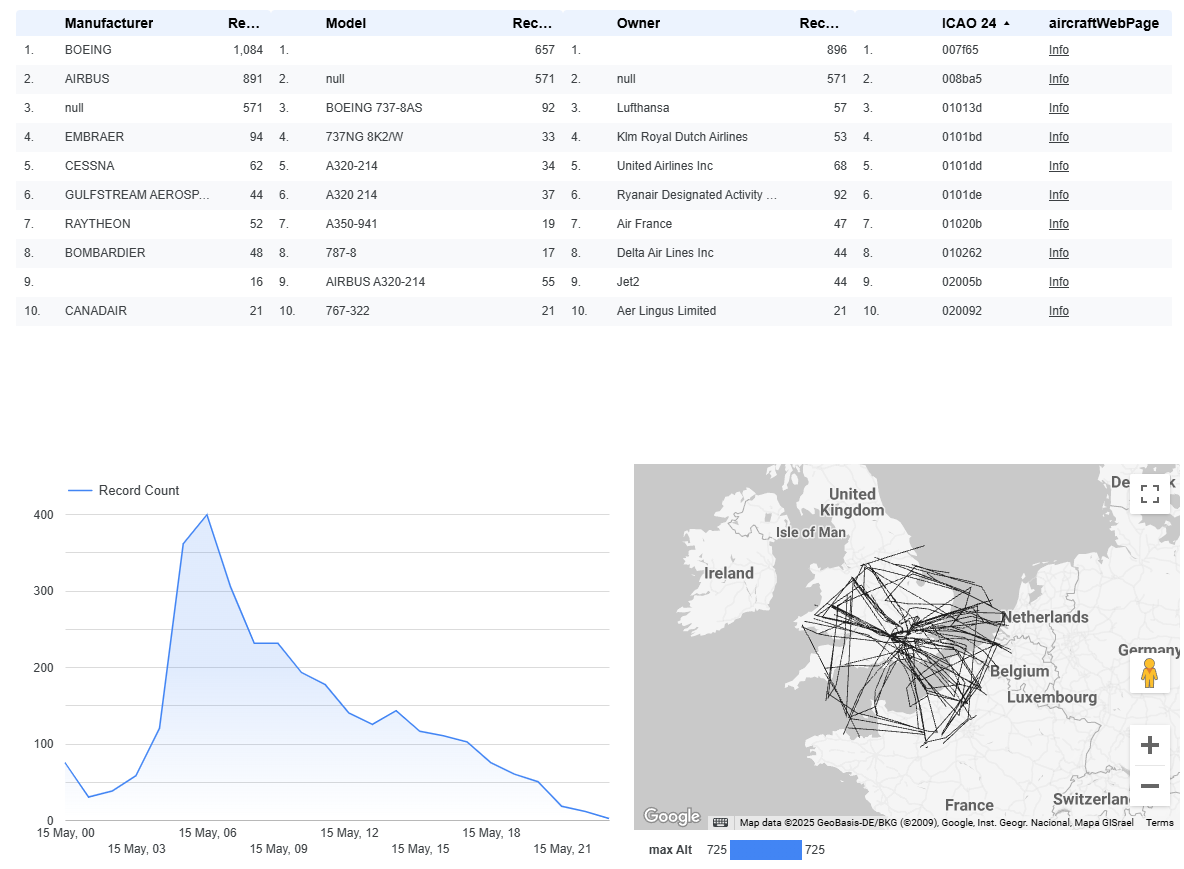
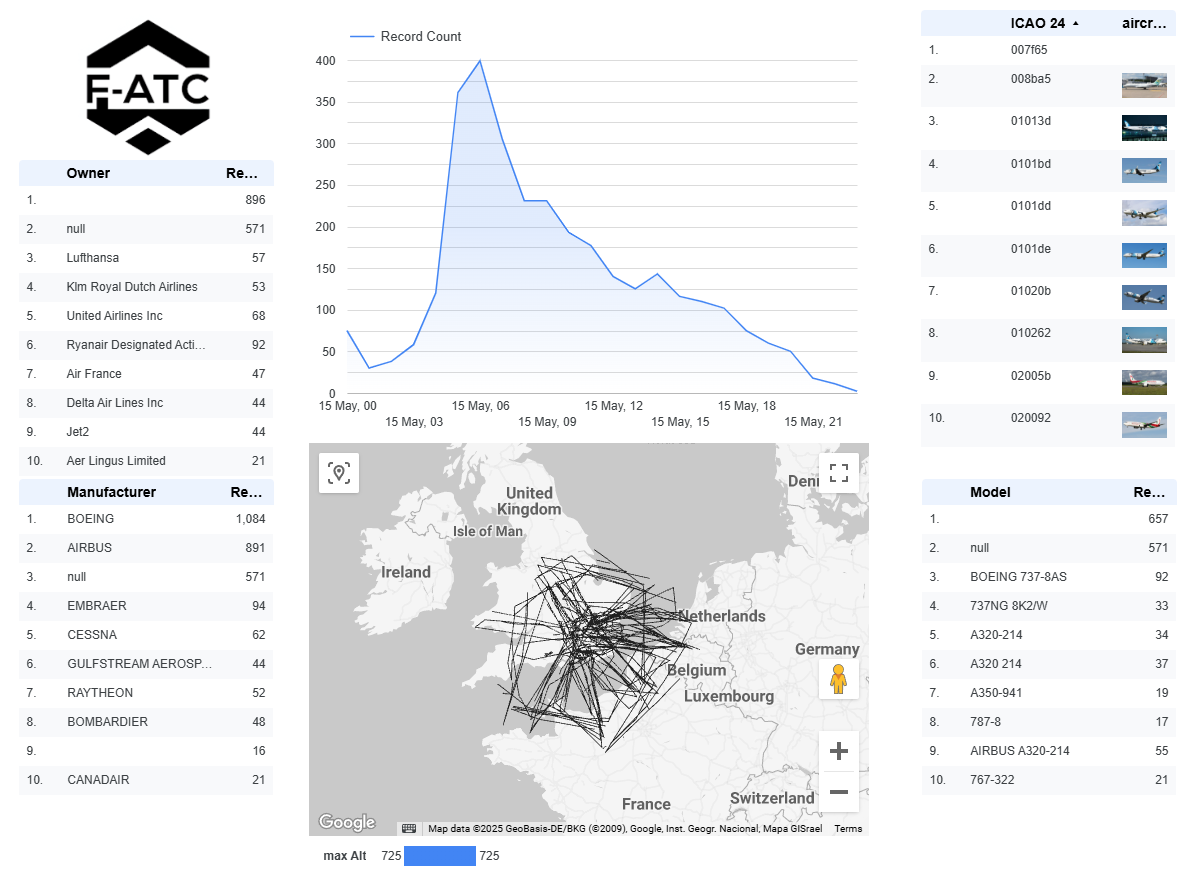
Updated Images

diff --git a/courses/DSL/challenge-business-dashboards/README.md b/courses/DSL/challenge-business-dashboards/README.md
@@ -254,6 +254,8 @@ The business team who owns the dashboard has asked for you to add in additional 
 The business team would like a tool tip showing the aircraft data from the following endpoint.
 You can call the following enmdpoint and get more details on the aircraft <https://api.planespotters.net/pub/photos/hex/AA9300>. Have a look at this link <https://lookerstudio.google.com/reporting/1zOZ2aPL8HYl4JIhjsMQKvj5BSWwcKRdv/page/EQxK>
 
+The application team has exposed an API that returns an image of the aircraft based on the ICAO number here <https://aircraftimage-707366556769.us-central1.run.app/>
+
 ![Architecture](images/lookerstudio_04.png)
 
 Aircraft Data Sourced from:
